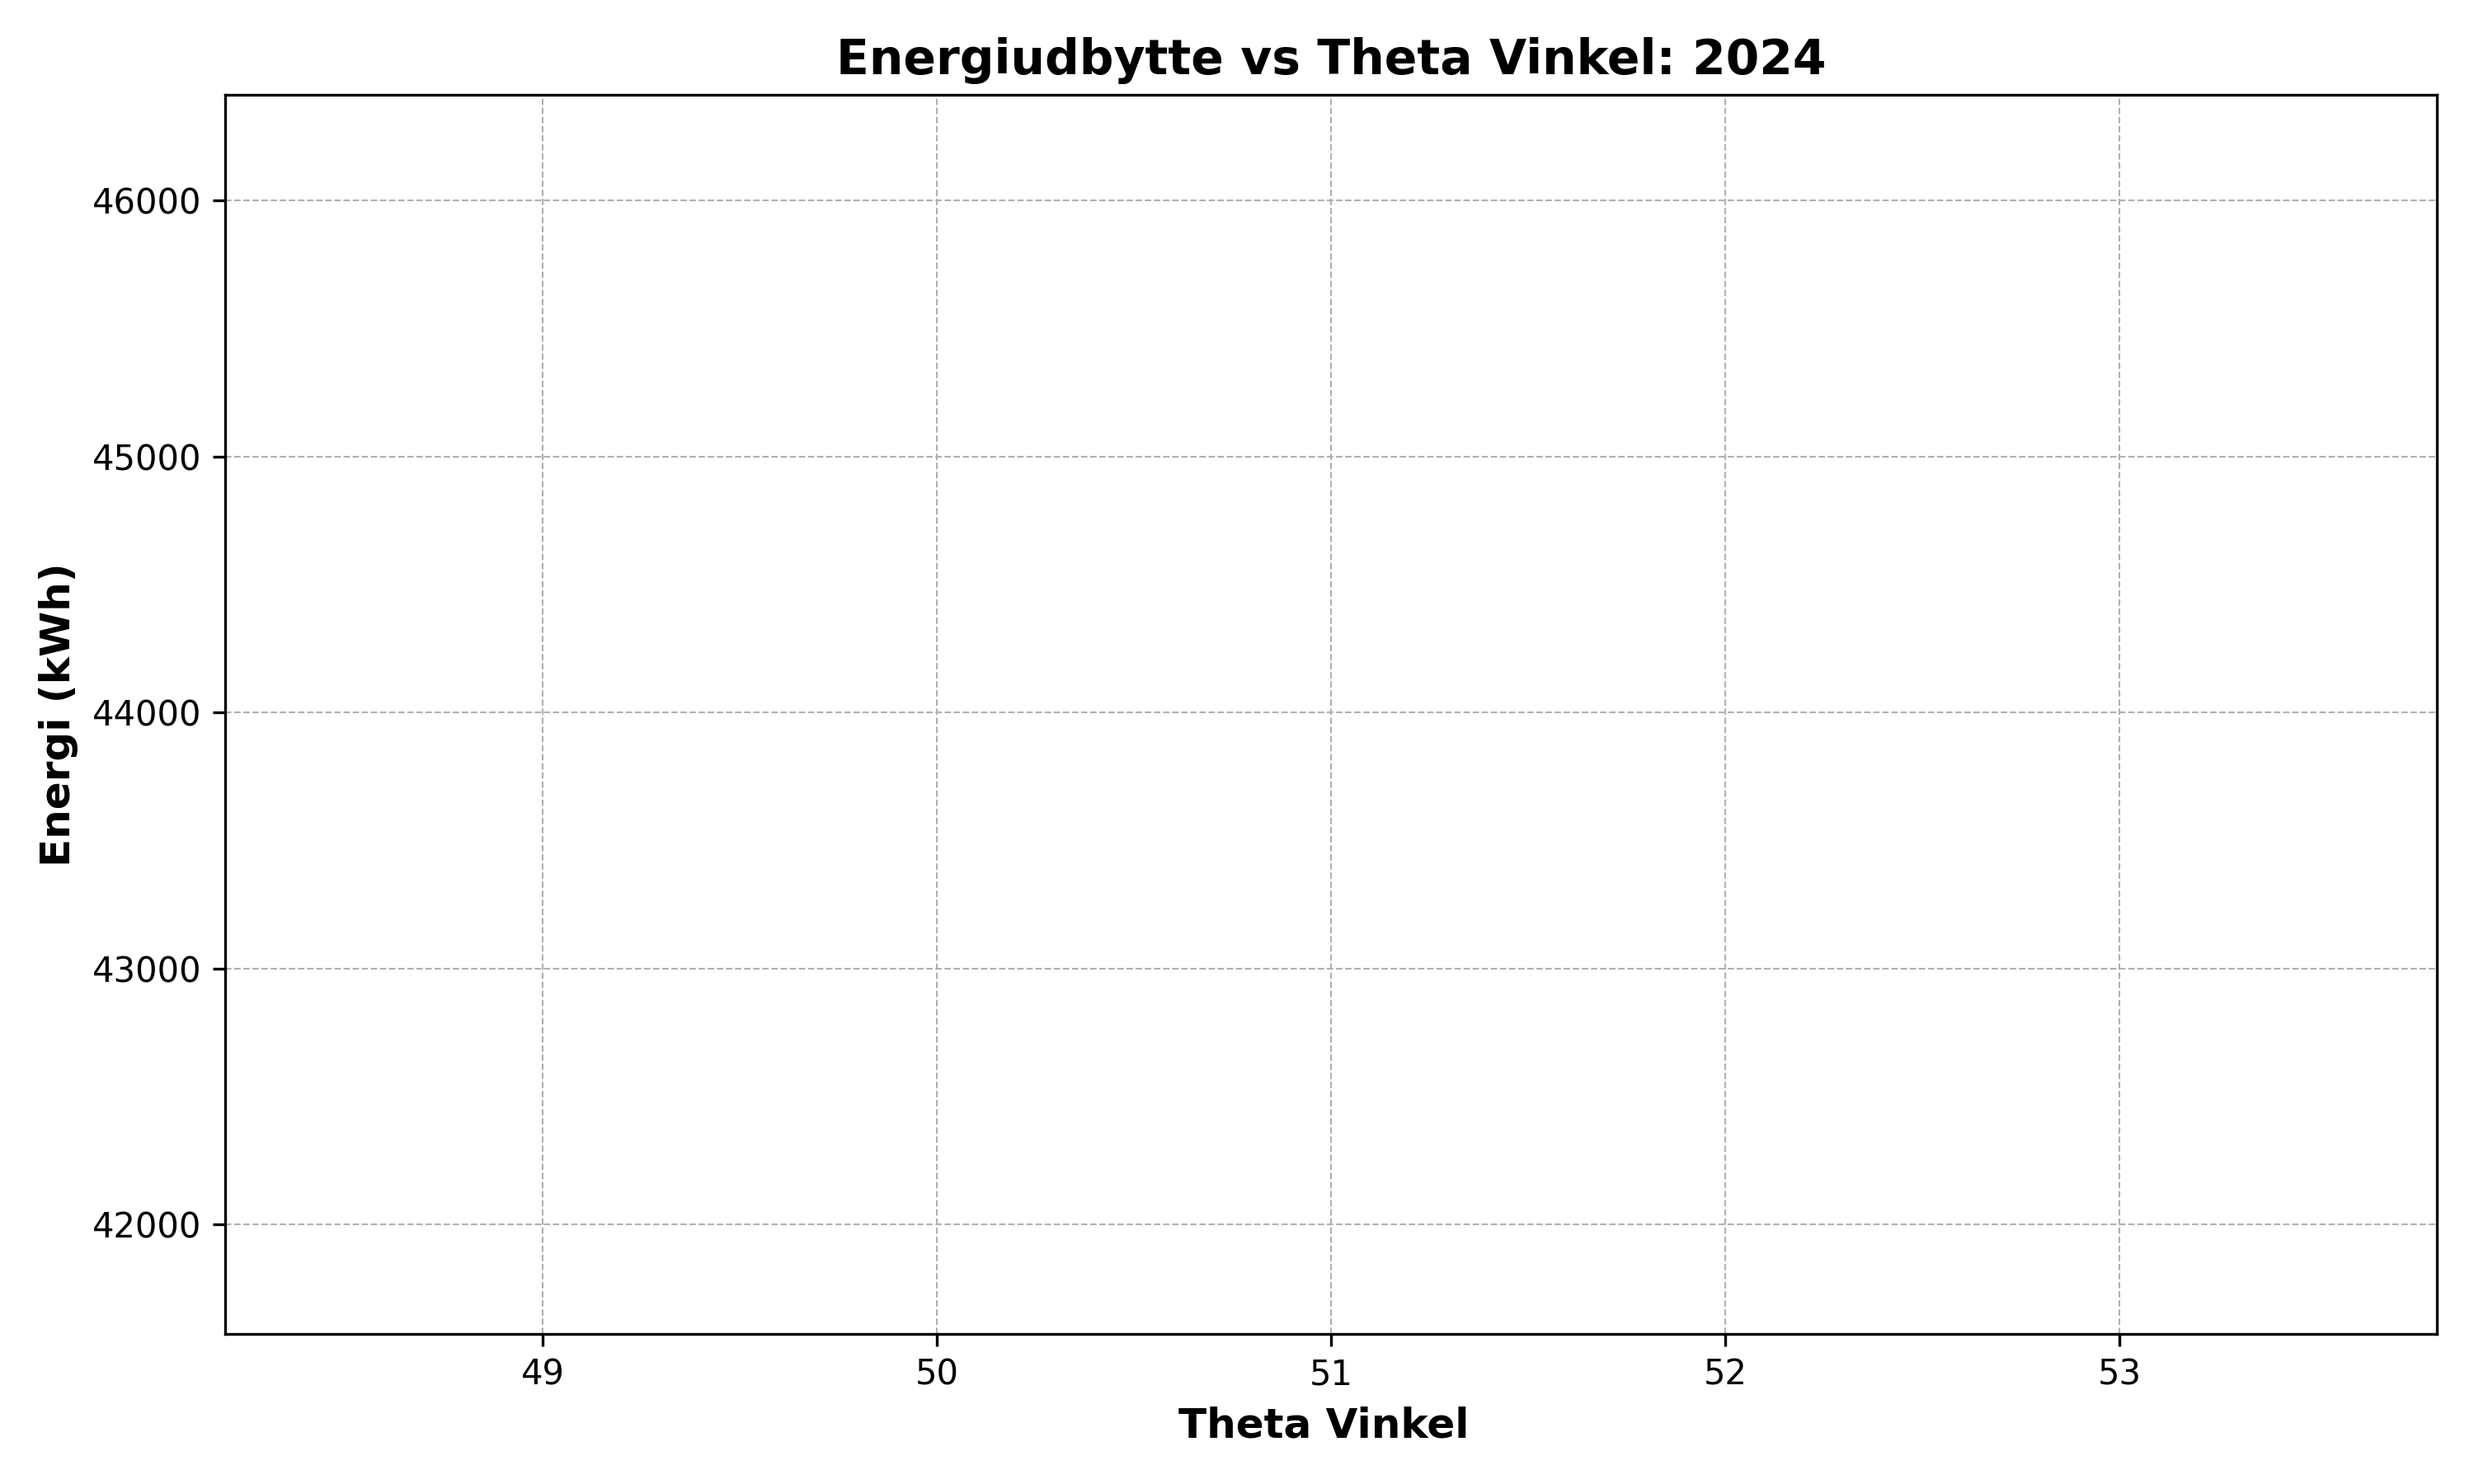
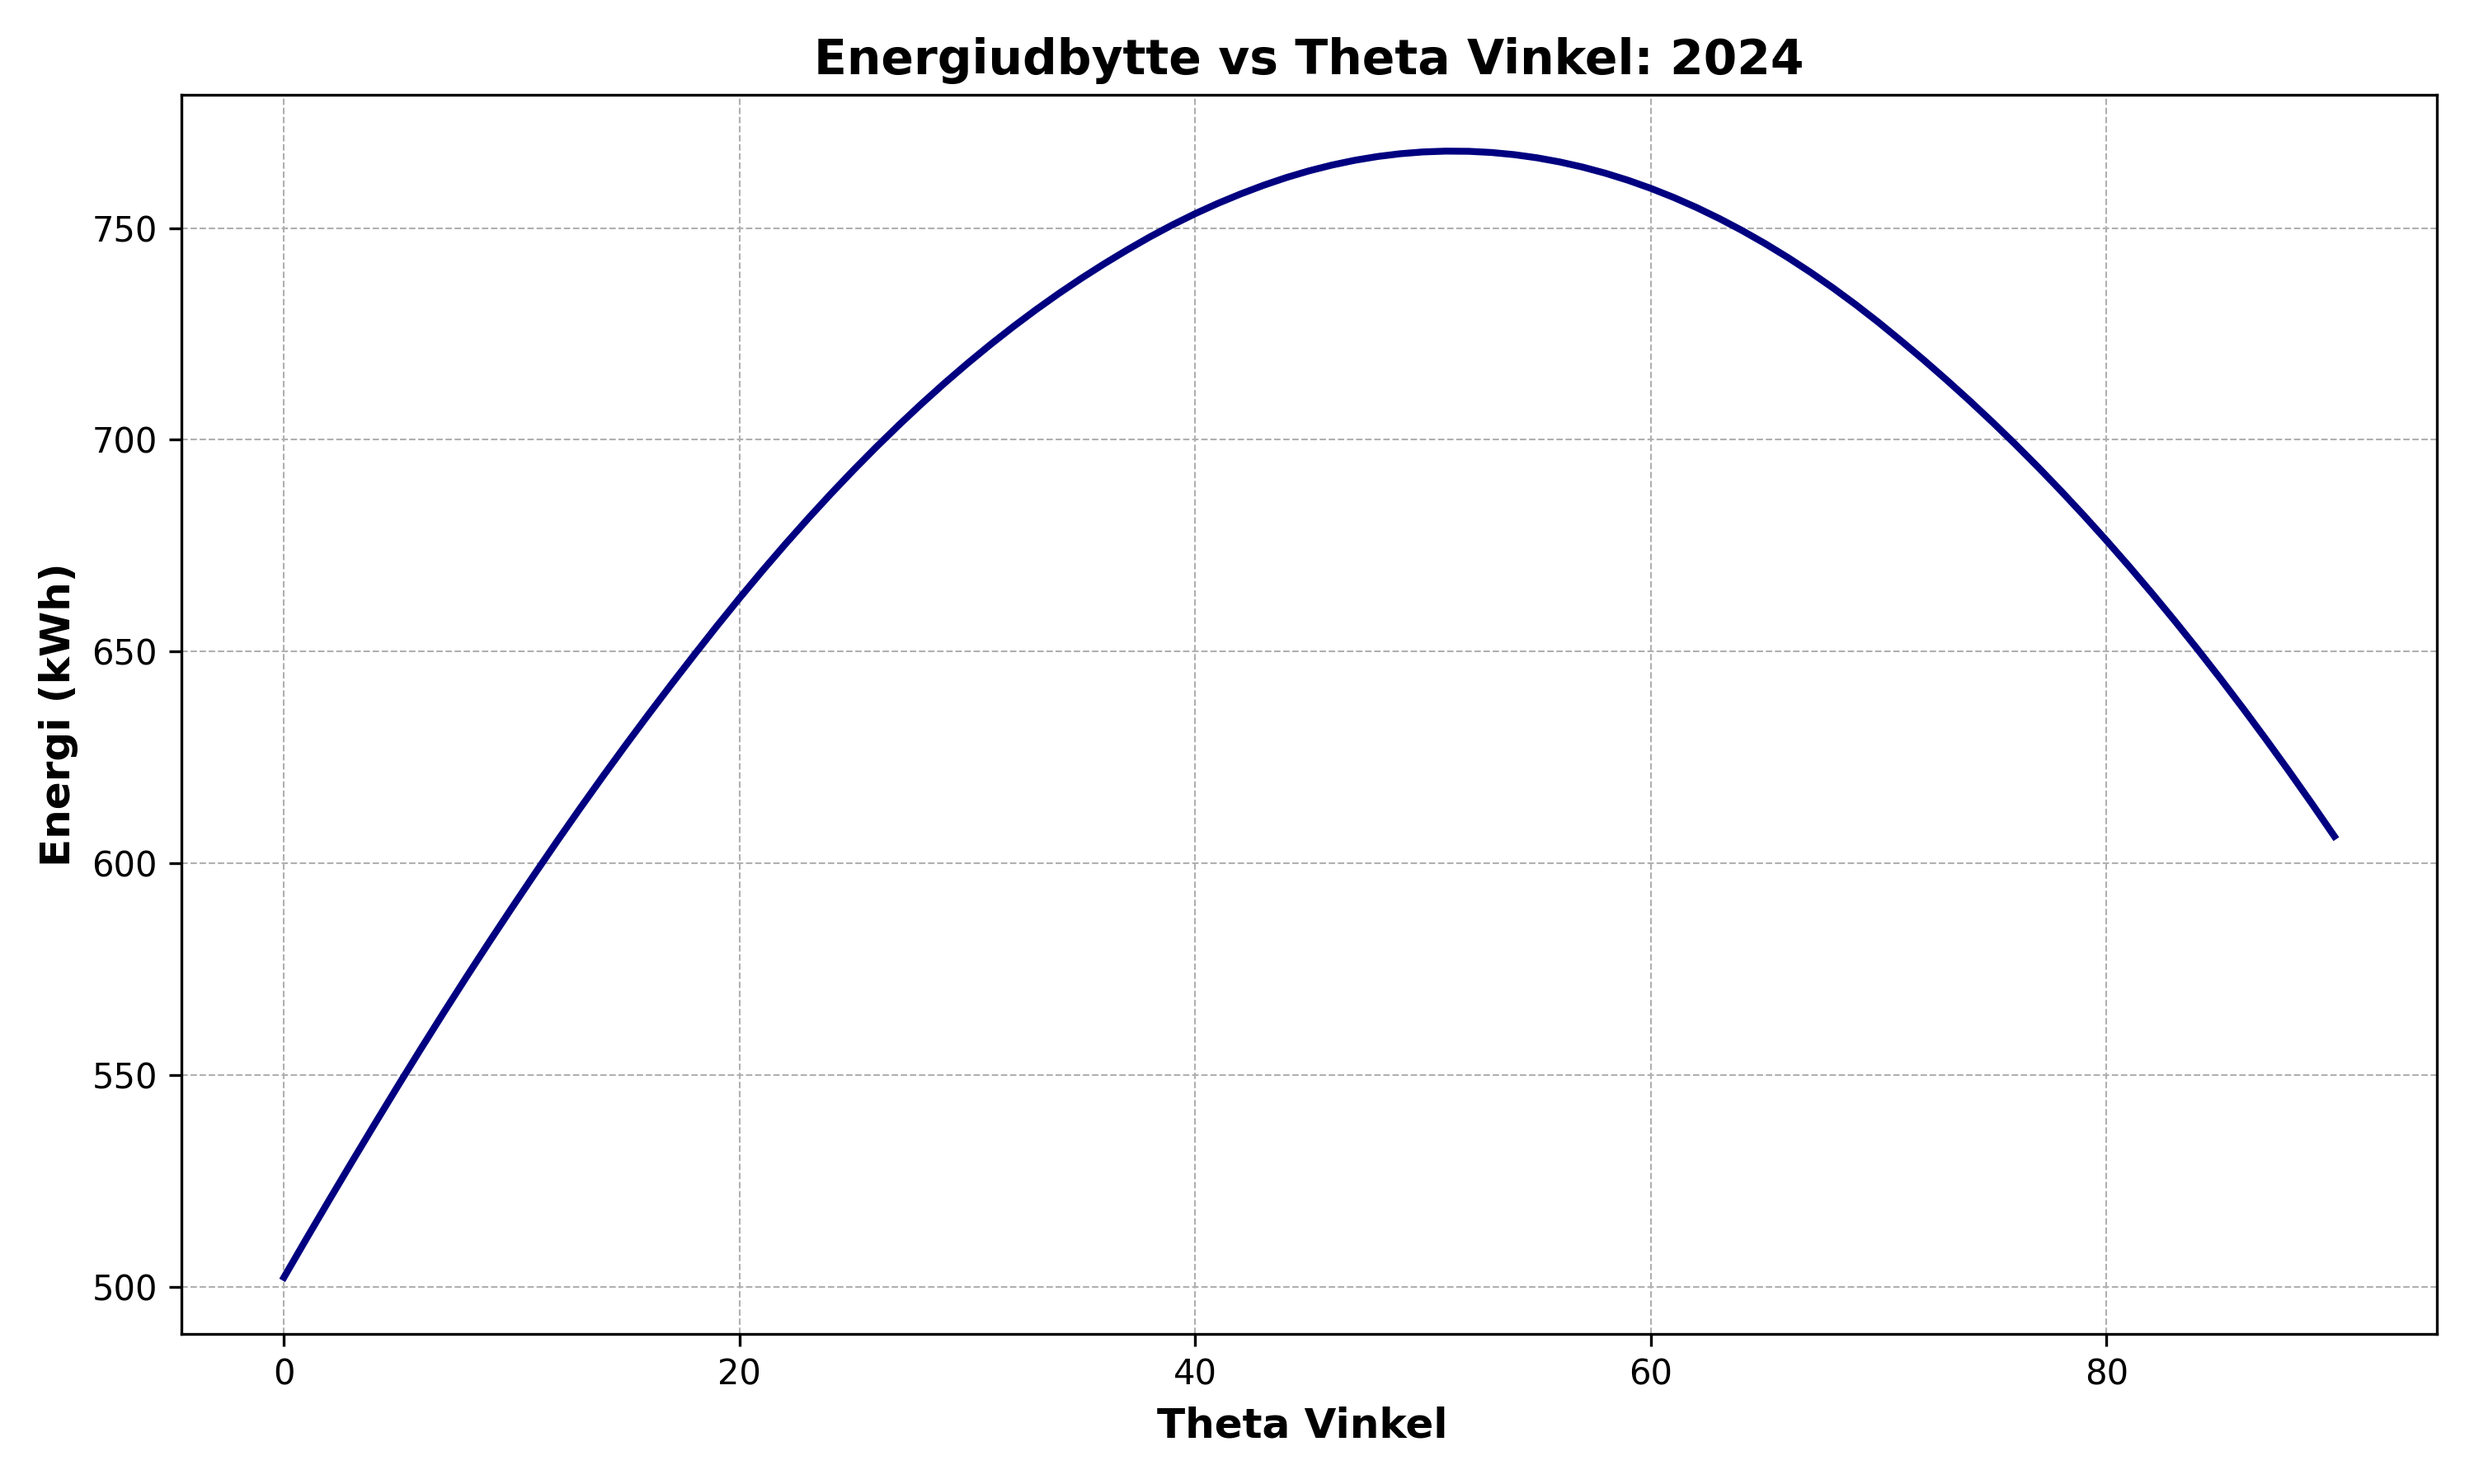
changes

diff --git a/effekt_energi/effekt_ernergi.py b/effekt_energi/effekt_ernergi.py
@@ -13,8 +13,8 @@ def data_load(
 
     if time_interval == "year":
         start_dato = "2024-01-01"
-        slut_dato = "2024-01-31"
-        delta_tid = "min"
+        slut_dato = "2024-12-31"
+        delta_tid = "h"
 
     elif time_interval == "day":
         start_dato = date
@@ -49,13 +49,13 @@ def plot_energy_curve(energy_generation: np.ndarray, save: bool):
     plt.figure(figsize=(10, 6))  # Set the figure size
     plt.plot(energy_generation, color="navy", linewidth=2)  # Customized line
     plt.xlabel(
-        "Days after jan. 1 ", fontsize=12, fontweight="bold"
+        "Dage efter jan. 1 ", fontsize=12, fontweight="bold"
     )  # Set the label for the x-axis
     plt.ylabel(
         "Energi (kWh)", fontsize=12, fontweight="bold"
     )  # Set the label for the y-axis
     plt.title(
-        "Daglig energiudbytte for 2024", fontsize=14, fontweight="bold"
+        "Dagligt energiudbytte for 2024", fontsize=14, fontweight="bold"
     )  # Set the title of the plot
     plt.grid(
         True, which="both", linestyle="--", linewidth=0.5
@@ -145,9 +145,6 @@ def energy_per_day(
     print(
         f"Total energy generation: {np.sum(daily_energy_arr):.3f} for theta angle: {np.rad2deg(theta_p[0]):.3f}"
     )
-    # plot the energy generation curve
-    plt.plot(daily_energy_arr)
-    plt.show()
 
     return daily_energy_arr
 
@@ -214,28 +211,28 @@ sun_angles, time = data_load(
 if time_interval == "year":
     period_seconds = 3600
 elif time_interval == "day":
-    period_seconds = 3600
+    period_seconds = 60
 
 # array of phi values including the max and min index
-phi_panel = np.linspace(np.deg2rad(180), np.deg2rad(180), 1)
+phi_panel = np.linspace(np.deg2rad(185), np.deg2rad(185), 1)
 # Array of theta values in radians from 0 to 90 degrees
-theta_panel = np.radians(np.arange(51, 52, 1))
+theta_panel = np.radians(np.arange(0, 91, 1))
 
 # Defining the panel dimensions i meters
 Længde = 2.278  # længde på solpanel
 Bredde = 1.133  # bredde på solpanel
-panel_areal = 36
+panel_areal = Længde * Bredde  # Areal af solpanelsetup
 
 S_0 = 1_100  # Samlede stråling (irradians)
 A_0 = 0.5  # Atmotfæriske forstyrrelser
 W_p = 0.211  # Solpanelet effektivitets faktor
 
-energy_generation = energy_per_day(
-    sun_angles, theta_panel, phi_panel, panel_areal, S_0, A_0, W_p, period_seconds
-)
+# energy_generation = energy_per_day(
+#     sun_angles, theta_panel, phi_panel, panel_areal, S_0, A_0, W_p, period_seconds
+# )
 
 
-# plot_energy_vs_theta(save=True)
+plot_energy_vs_theta(save=True)
 
 # plot_energy_curve(energy_generation, save=True)
 
